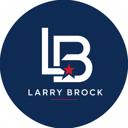
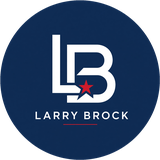
Nav: LB circle badge with star.
Replace upper-left landscape/wordmark with the circular LB+star insignia plus Larry Brock name.

diff --git a/css/site.css b/css/site.css
@@ -27,10 +27,19 @@ body{
   background:#0B1C2C;
   border-bottom:1px solid rgba(255,255,255,.06);
 }
-.brand{display:flex;align-items:center;text-decoration:none;line-height:0}
-.brand img{
-  height:36px;width:auto;max-width:min(200px,55vw);
-  display:block;
+.brand{
+  display:flex;align-items:center;gap:.55rem;
+  text-decoration:none;line-height:0;color:#fff;
+}
+.brand-badge{
+  height:40px;width:40px;border-radius:50%;
+  display:block;object-fit:cover;
+  box-shadow:0 0 0 1px rgba(255,255,255,.12);
+}
+.brand-name{
+  font-family:Montserrat,Inter,system-ui,sans-serif;
+  font-weight:800;font-size:.88rem;letter-spacing:.08em;
+  text-transform:uppercase;line-height:1;
 }
 nav{display:flex;align-items:center;gap:1.1rem;flex-wrap:wrap;justify-content:flex-end}
 nav a{

diff --git a/index.html b/index.html
@@ -16,7 +16,8 @@
 
   <header class="top">
     <a class="brand" href="#top" aria-label="Larry Brock for Texas — home">
-      <img src="assets/nav-lb-star-word.png" alt="Larry Brock" width="200" height="32">
+      <img class="brand-badge" src="assets/nav-lb-badge.png" alt="Larry Brock" width="44" height="44">
+      <span class="brand-name">Larry Brock</span>
     </a>
     <nav aria-label="Primary">
       <a href="#agenda">Agenda</a>
